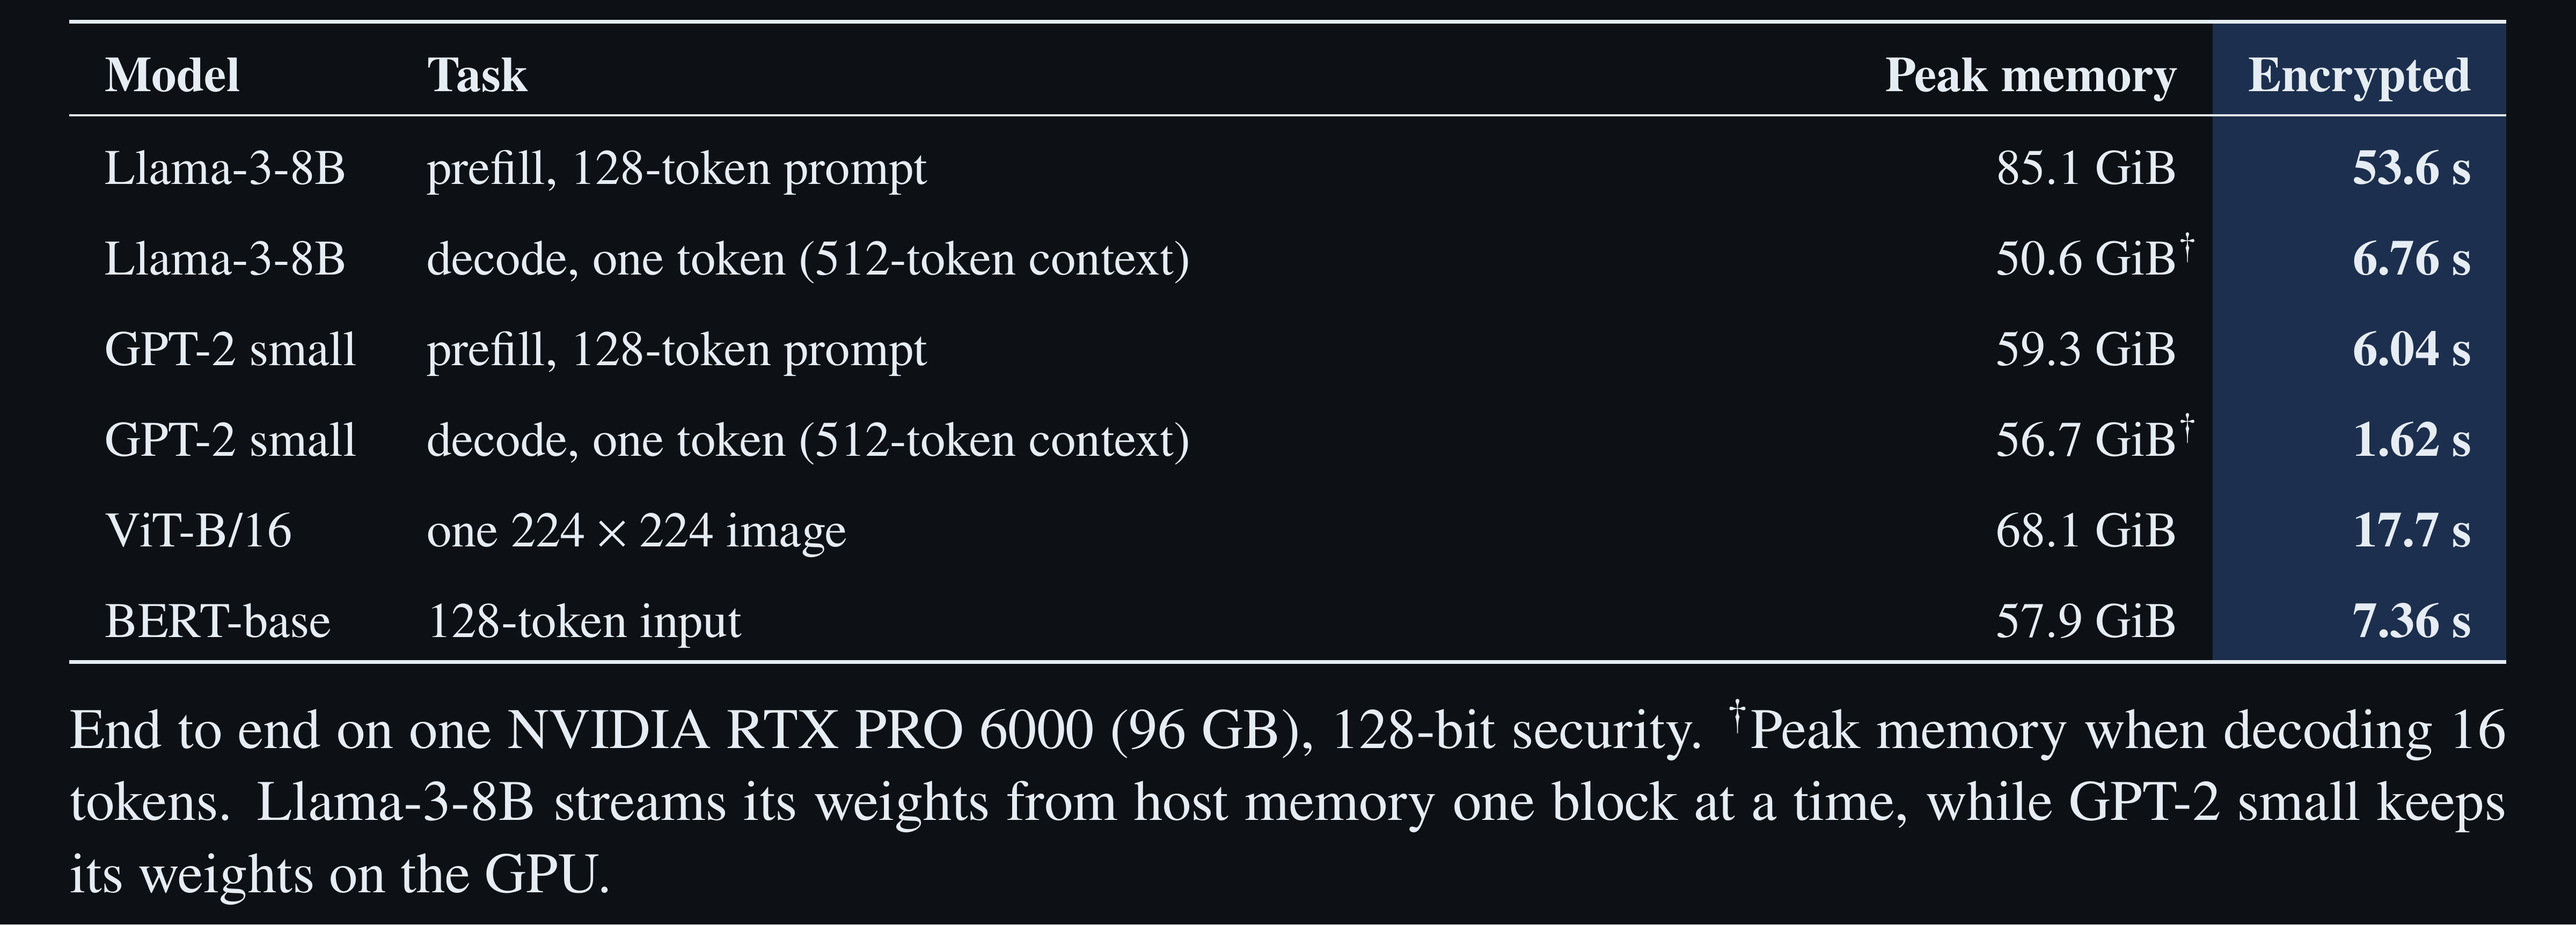
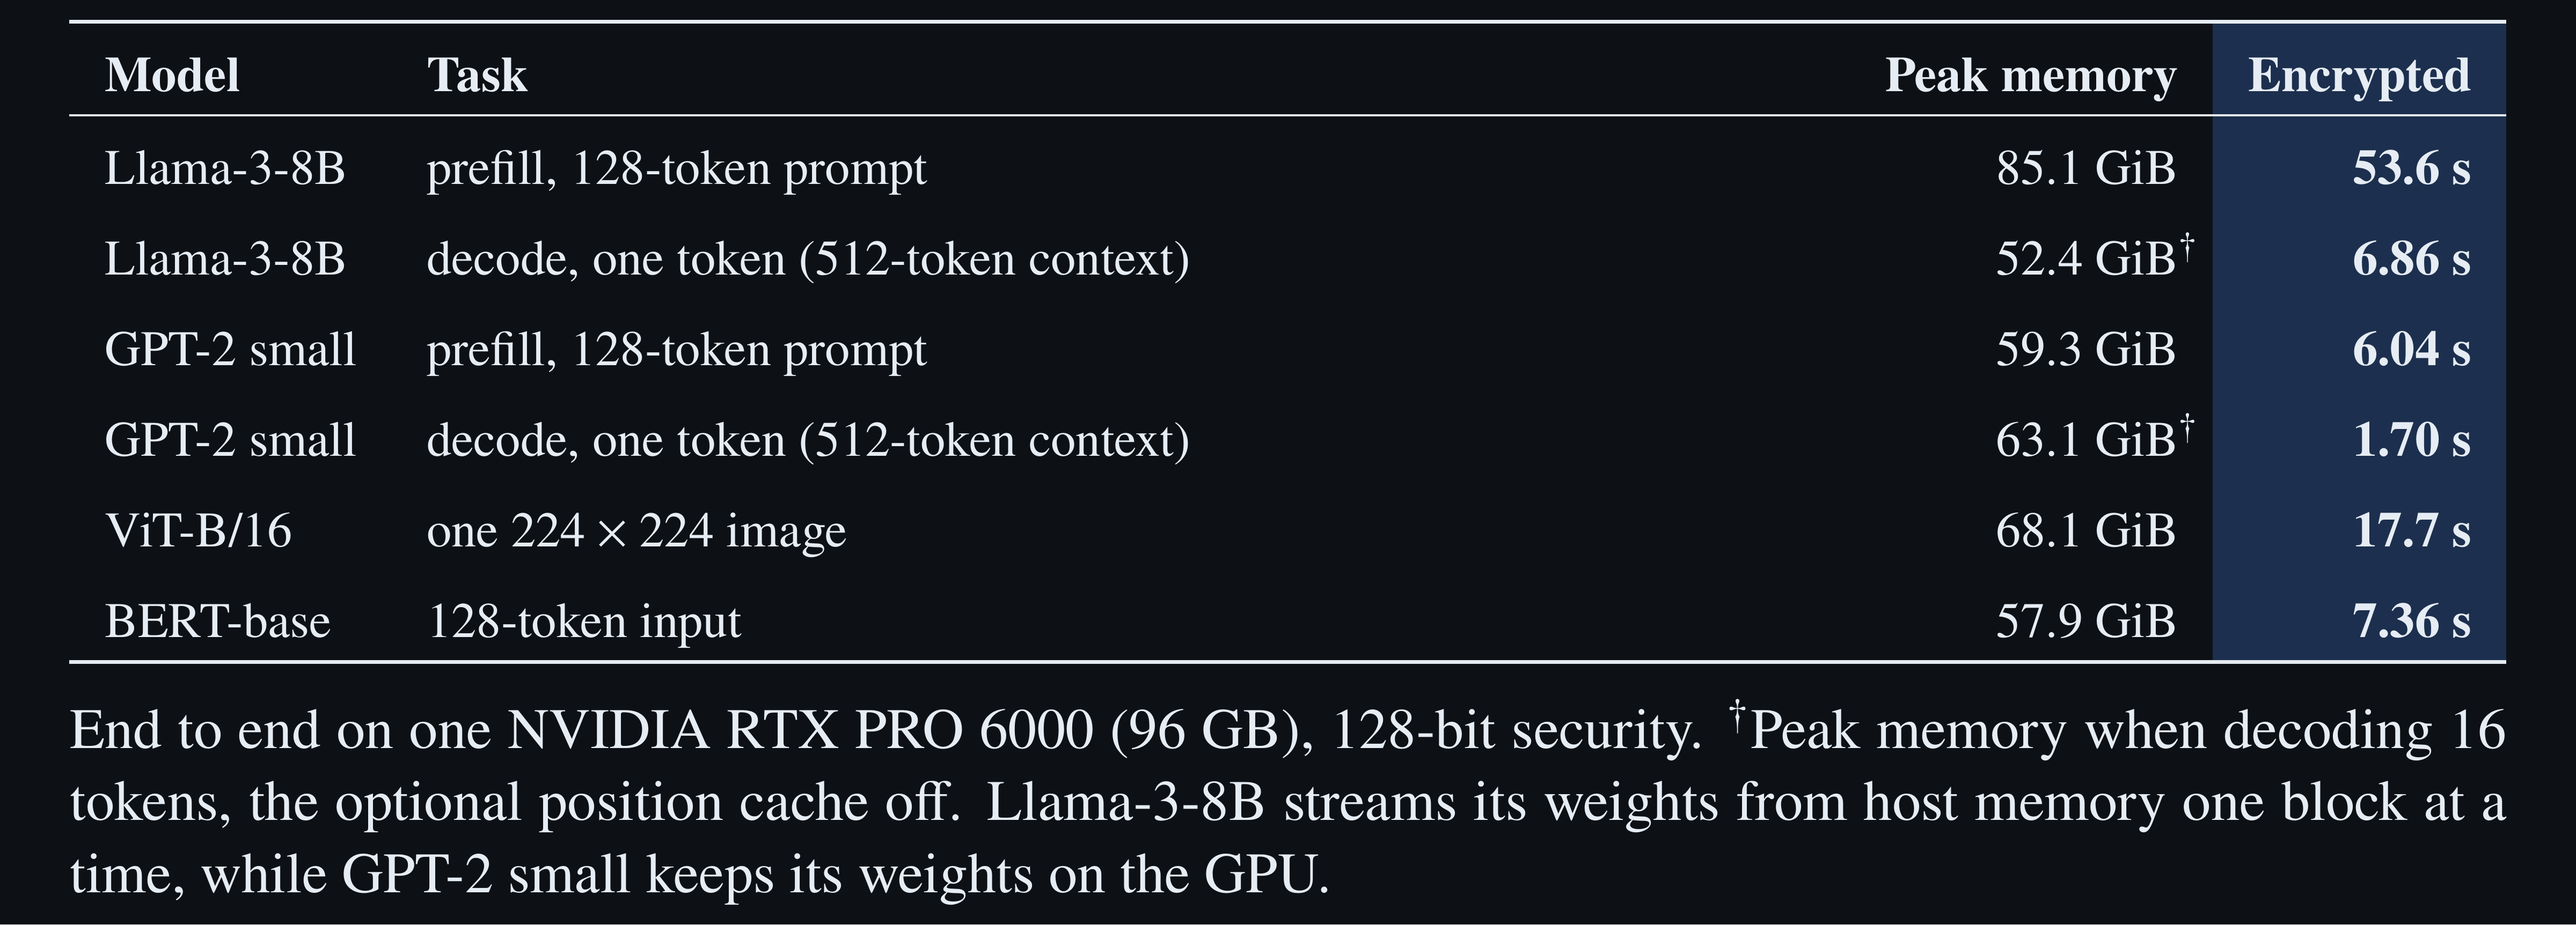
README: the decode times and peak memory of the new defaults (GPT-2 1.70 s and Llama 6.86 s per token; peak memory when decoding 16 tokens with the optional position cache off, 63.1 and 52.4 GiB)

diff --git a/assets/paper-tables.tex b/assets/paper-tables.tex
@@ -18,12 +18,13 @@
 \setlength{\dashlinedash}{3pt}\setlength{\dashlinegap}{3pt}
 % Perseus' numbers on the Rust + CUDA runtime (the shipped default plans, 2026-11-04: medians of 2 paired rounds on
 % one isolated GPU; decode at a 512-token context, positions 500-511 after a 500-position plaintext prefix)
-\newcommand{\llamapf}{53.6}\newcommand{\llamadec}{6.76}\newcommand{\gptpf}{6.04}\newcommand{\gptdec}{1.62}
+\newcommand{\llamapf}{53.6}\newcommand{\llamadec}{6.86}\newcommand{\gptpf}{6.04}\newcommand{\gptdec}{1.70}
 \newcommand{\vitimg}{17.7}\newcommand{\bertin}{7.36}
 % peak GPU memory, GiB: total (94.97) minus the lowest free of the run (the prefills replay CUDA graphs, captured in
-% the first forward after setup); the decode rows at a short context (the repro scripts' 16 tokens), Llama's the
-% GPU's peak used memory over the run (its runner reports no free memory)
-\newcommand{\llamapfmem}{85.1}\newcommand{\llamadecmem}{50.6}\newcommand{\gptpfmem}{59.3}\newcommand{\gptdecmem}{56.7}
+% the first forward after setup); the decode rows at a short context (the repro scripts' 16 tokens), without the
+% optional position cache (PC_PT_CACHE=0), Llama's the GPU's peak used memory over the run (its runner reports no free
+% memory)
+\newcommand{\llamapfmem}{85.1}\newcommand{\llamadecmem}{52.4}\newcommand{\gptpfmem}{59.3}\newcommand{\gptdecmem}{63.1}
 \newcommand{\vitmem}{68.1}\newcommand{\bertmem}{57.9}
 \newcommand{\oursrow}{\rowcolor{ours}}
 \newcommand{\oc}{\cellcolor{ours}}
@@ -53,7 +54,7 @@ ViT-B/16 & one $224\times224$ image & \vitmem\ GiB & \textbf{\vitimg\ s} \\
 BERT-base & 128-token input & \bertmem\ GiB & \textbf{\bertin\ s} \\
 \bottomrule
 \end{tabularx}
-\tcap{End to end on one NVIDIA RTX PRO 6000 (96 GB), 128-bit security. $^\dagger$Peak memory when decoding 16 tokens.
+\tcap{End to end on one NVIDIA RTX PRO 6000 (96 GB), 128-bit security. $^\dagger$Peak memory when decoding 16 tokens, the optional position cache off.
 Llama-3-8B streams its weights from host memory one block at a time, while GPT-2 small keeps its weights on the GPU.}
 \end{tbl}
 

diff --git a/README.md b/README.md
@@ -39,7 +39,7 @@ our 32-bit GPU port of [FIDESlib](https://github.com/CAPS-UMU/FIDESlib)).
     <picture>
       <source media="(prefers-color-scheme: dark)" srcset="assets/paper-tables-overview-dark.png">
       <source media="(prefers-color-scheme: light)" srcset="assets/paper-tables-overview-light.png">
-      <img src="assets/paper-tables-overview-light.png" alt="Perseus, encrypted, end to end on one RTX PRO 6000 with 128-bit security, and the peak GPU memory of each run (Llama-3-8B streams its weights from host memory, GPT-2 small keeps its weights on the GPU). Llama-3-8B prefill of a 128-token prompt 53.6 s (85.1 GiB), decode of one token at a 512-token context 6.76 s (50.6 GiB when decoding 16 tokens). GPT-2 small prefill 6.04 s (59.3 GiB), decode 1.62 s per token at a 512-token context (56.7 GiB when decoding 16 tokens). ViT-B/16 17.7 s per image (68.1 GiB). BERT-base 7.36 s for 128 tokens (57.9 GiB)." width="707">
+      <img src="assets/paper-tables-overview-light.png" alt="Perseus, encrypted, end to end on one RTX PRO 6000 with 128-bit security, and the peak GPU memory of each run (Llama-3-8B streams its weights from host memory, GPT-2 small keeps its weights on the GPU). Llama-3-8B prefill of a 128-token prompt 53.6 s (85.1 GiB), decode of one token at a 512-token context 6.86 s (52.4 GiB when decoding 16 tokens). GPT-2 small prefill 6.04 s (59.3 GiB), decode 1.70 s per token at a 512-token context (63.1 GiB when decoding 16 tokens). ViT-B/16 17.7 s per image (68.1 GiB). BERT-base 7.36 s for 128 tokens (57.9 GiB)." width="707">
     </picture>
   </a>
 </p>
@@ -66,7 +66,7 @@ ours where the code is released.
     <picture>
       <source media="(prefers-color-scheme: dark)" srcset="assets/paper-tables-llama-dark.png">
       <source media="(prefers-color-scheme: light)" srcset="assets/paper-tables-llama-light.png">
-      <img src="assets/paper-tables-llama-light.png" alt="Encrypted Llama-3-8B. Prefill of a 128-token prompt, seconds. MOAI 3592.0 on H200, NEXUS 829.0 on 4 A100, Euston 484.0, STIP 406.6 (composed timings, amortized over a batch); Odin 366.4 on H100; Cerium 347.5 (replicated on RTX PRO 6000); Sylph 116.0 (composed); Perseus 53.6 on RTX PRO 6000, open source. Decode of one token, seconds per token at a context size. AR-HE 1569.0 at 32, ROSETTA 311.0 at 512, Cachemir 97.0 at 512, Sylph 31.0 at 128 (all composed timings); Perseus 6.76 at 512 on RTX PRO 6000, open source." width="707">
+      <img src="assets/paper-tables-llama-light.png" alt="Encrypted Llama-3-8B. Prefill of a 128-token prompt, seconds. MOAI 3592.0 on H200, NEXUS 829.0 on 4 A100, Euston 484.0, STIP 406.6 (composed timings, amortized over a batch); Odin 366.4 on H100; Cerium 347.5 (replicated on RTX PRO 6000); Sylph 116.0 (composed); Perseus 53.6 on RTX PRO 6000, open source. Decode of one token, seconds per token at a context size. AR-HE 1569.0 at 32, ROSETTA 311.0 at 512, Cachemir 97.0 at 512, Sylph 31.0 at 128 (all composed timings); Perseus 6.86 at 512 on RTX PRO 6000, open source." width="707">
     </picture>
   </a>
   <br>
@@ -74,7 +74,7 @@ ours where the code is released.
     <picture>
       <source media="(prefers-color-scheme: dark)" srcset="assets/paper-tables-gpt2-dark.png">
       <source media="(prefers-color-scheme: light)" srcset="assets/paper-tables-gpt2-light.png">
-      <img src="assets/paper-tables-gpt2-light.png" alt="Encrypted GPT-2 small. AR-HE 128-token prefill 18520.0 s, decode 544.0 s per token at context 33. ROSETTA decode 78.6 s at 512 (composed). EncryptedLLM decode 68.0 s at 128. Perseus prefill 6.04 s, decode 1.62 s per token at context 512, on RTX PRO 6000, open source." width="707">
+      <img src="assets/paper-tables-gpt2-light.png" alt="Encrypted GPT-2 small. AR-HE 128-token prefill 18520.0 s, decode 544.0 s per token at context 33. ROSETTA decode 78.6 s at 512 (composed). EncryptedLLM decode 68.0 s at 128. Perseus prefill 6.04 s, decode 1.70 s per token at context 512, on RTX PRO 6000, open source." width="707">
     </picture>
   </a>
   <br>
@@ -218,7 +218,7 @@ be skipped.
 You need the following.
 - Linux, an NVIDIA GPU of compute capability 12.0 (Blackwell; the kernels are built for `sm_120`)
   and CUDA 13.2 (`CUDA_HOME`, default `/usr/local/cuda-13.2`).
-- A GPU with enough memory for the run. Decoding peaks at 56.7 GiB with GPT-2 and 50.6 GiB with
+- A GPU with enough memory for the run. Decoding peaks at 63.1 GiB with GPT-2 and 52.4 GiB with
   Llama-3-8B, and the Llama-3-8B prefill needs the most, 85.1 GiB (the first table lists every peak,
   measured on a 96 GB GPU).
 - The Rust toolchain (`rustup`; `rust-toolchain.toml` pins the version) and Python 3.12.
